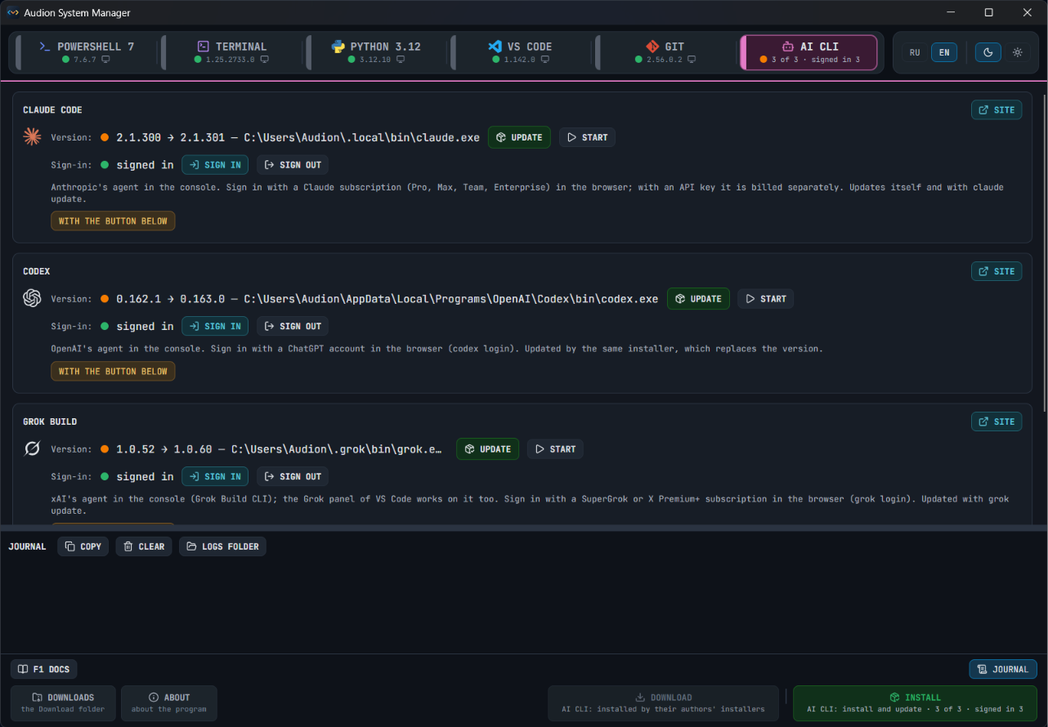
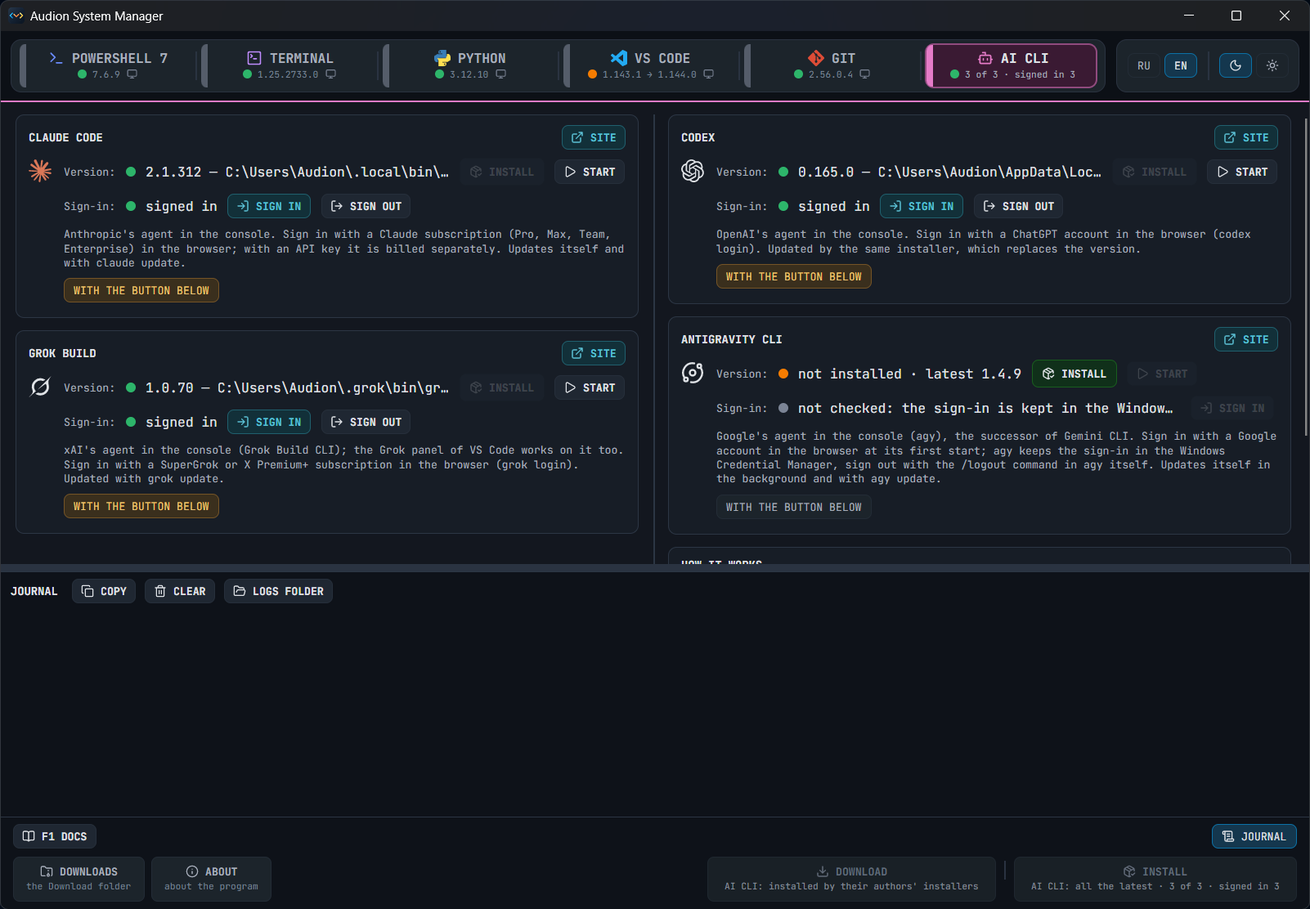
release: Audion System Manager 1.3.0

diff --git a/Docs/USER_GUIDE_RU.md b/Docs/USER_GUIDE_RU.md
@@ -8,7 +8,7 @@
 - [Как устроено окно](#как-устроено-окно)
 - [POWERSHELL 7](#powershell-7)
 - [TERMINAL](#terminal)
-- [PYTHON 3.12](#python-312)
+- [PYTHON](#python)
 - [VS CODE](#vs-code)
 - [GIT](#git)
 - [AI CLI](#ai-cli)
@@ -18,7 +18,7 @@
 - [Клавиши](#клавиши)
 - [Сеть и приватность](#сеть-и-приватность)
 
-Audion System Manager — одно окно для рабочего окружения разработчика на Windows: **PowerShell 7**, **Windows Terminal**, **Python 3.12**, **VS Code**, **Git** с **GitHub CLI** и агенты в консоли — **Claude Code**, **Codex**, **Grok Build**. Каждую программу можно поставить в систему или развернуть портативной папкой — со всеми опциями, которых не даёт менеджер пакетов, и с настройками Audion. Всё делается кнопками: без чёрного окна консоли и без ключей командной строки.
+Audion System Manager — одно окно для рабочего окружения разработчика на Windows: **PowerShell 7**, **Windows Terminal**, **Python 3.12, 3.13 и 3.14**, **VS Code**, **Git** с **GitHub CLI** и агенты в консоли — **Claude Code**, **Codex**, **Grok Build**. Каждую программу можно поставить в систему или развернуть портативной папкой — со всеми опциями, которых не даёт менеджер пакетов, и с настройками Audion. Всё делается кнопками: без чёрного окна консоли и без ключей командной строки.
 
 ## Запуск
 
@@ -32,14 +32,14 @@ Audion System Manager — одно окно для рабочего окруже
 
 **Верхняя строка** — две тёмных плашки: шесть разделов и справа язык и тема. Название и версия программы — в заголовке окна и в ABOUT.
 
-**Разделы** — POWERSHELL 7, TERMINAL, PYTHON 3.12, VS CODE, GIT, AI CLI. У каждого свой цвет; цвет линии под заголовком показывает, какой выбран. Под названием раздела — версия в выбранном на его странице режиме и значок режима (экран — в системе, флешка — портативно). Точка рядом с версией: зелёная — версия последняя, оранжевая — не установлено или вышла новая («1.132.0 → 1.142.0»), серая — источник не ответил. У AI CLI вместо версии — сводка «2 из 3 · вход 2»: сколько агентов стоит и в скольких выполнен вход.
+**Разделы** — POWERSHELL 7, TERMINAL, PYTHON, VS CODE, GIT, AI CLI. У каждого свой цвет; цвет линии под заголовком показывает, какой выбран. Под названием раздела — версия в выбранном на его странице режиме и значок режима (экран — в системе, флешка — портативно). Точка рядом с версией: зелёная — версия последняя, оранжевая — не установлено или вышла новая («1.132.0 → 1.142.0»), серая — источник не ответил. У AI CLI вместо версии — сводка «2 из 3 · вход 2»: сколько агентов стоит и в скольких выполнен вход.
 
-**Страница раздела** начинается с двух больших кнопок режима:
+**Страница раздела** начинается с переключателя режима — двух кнопок в одной рамке слева вверху:
 
 - **В СИСТЕМУ** — программа ставится на машину (или в профиль, где так задумано) со своими опциями;
 - **ПОРТАТИВНО** — программа распаковывается в папку и ничего не ставит; папку можно унести на другую машину.
 
-Под ними — карточки выбранного режима: состояние (что стоит, где, какая версия последняя, что лежит в загрузках), опции и кнопки. У VS Code ниже — общая для обоих режимов карточка настроек и расширений.
+Под ним — карточки выбранного режима в две колонки с линией между ними; обе колонки относятся к режиму, выбранному переключателем. Слева — что есть: состояние (что стоит, где, какая версия последняя, что лежит в загрузках). Справа — что с этим сделать: опции установки, а в портативном режиме папка и **РАЗВЁРТЫВАНИЕ** (как сборка разворачивается из архива в Download, её кнопки). Общие для обоих режимов карточки — профиль PowerShell, шрифт терминала, настройки и расширения VS Code, GitHub CLI и настройки Git — стоят в тех же колонках. В AI CLI агенты идут по очереди слева и справа, в ABOUT слева сведения о программе, справа настройки, клавиши и лицензия. В узком окне колонки встают одна под другой: сначала левая, потом правая.
 
 **Внизу**, постоянно:
 
@@ -71,7 +71,7 @@ Audion System Manager — одно окно для рабочего окруже
 
 **Портативно.** zip того же релиза распаковывается в папку (по умолчанию `Portable\PowerShell` рядом с программой; поле **Папка** меняет её). Профиль и модули пользователя портативный PowerShell берёт из «Документов», как и установленный. **ЗАПУСТИТЬ** открывает его в отдельной консоли.
 
-**Профиль PowerShell** — общий для обоих режимов: скрипт `Documents\PowerShell\Microsoft.PowerShell_profile.ps1`, который выполняется в начале каждого окна. Профиль Audion (`Presets\PowerShell`) — кодировка UTF-8, подсказки PSReadLine из истории списком, поиск по истории стрелками. **ПЕРЕНЕСТИ ПРОФИЛЬ** кладёт его (прежний откладывается рядом с датой в имени), **ВЗЯТЬ С МАШИНЫ** делает набором профиль этой машины.
+**Профиль PowerShell** — общий для обоих режимов: скрипт `Documents\PowerShell\Microsoft.PowerShell_profile.ps1`, который выполняется в начале каждого окна. Профиль Audion (`Presets\PowerShell`) — кодировка UTF-8, подсказки PSReadLine из истории списком, поиск по истории стрелками. **ПЕРЕНЕСТИ ПРОФИЛЬ** кладёт его (прежний откладывается рядом с датой в имени), **ВЗЯТЬ С МАШИНЫ** делает набором профиль этой машины. С галочкой **Настройки автора: профиль Audion** (нажата по умолчанию) профиль кладётся и при каждой установке и развёртывании; без неё PowerShell 7 ставится чистым, профиль на машине не трогается.
 
 ## TERMINAL
 
@@ -83,17 +83,19 @@ Audion System Manager — одно окно для рабочего окруже
 
 **Шрифт** — Cascadia Code и Cascadia Mono с вариантами NF (Nerd Font: значки в строке приглашения и списках файлов) и PL с GitHub, для пользователя, без прав. Начертание, которое уже есть в Windows (в Windows 11 — Cascadia Mono), не трогается; те же файлы повторно не ставятся.
 
-**Портативно.** zip релиза с GitHub распаковывается в папку (по умолчанию `Portable\Terminal`), рядом с WindowsTerminal.exe кладётся файл `.portable` — и терминал держит настройки в `settings\` рядом с собой. С чипом **НАСТРОЙКИ AUDION** туда же кладутся настройки Audion. При обновлении `settings\` и `.portable` остаются.
+**Портативно.** zip релиза с GitHub распаковывается в папку (по умолчанию `Portable\Terminal`), рядом с WindowsTerminal.exe кладётся файл `.portable` — и терминал держит настройки в `settings\` рядом с собой. С галочкой **Настройки автора** туда же кладутся настройки Audion; та же галочка в карточке **НАСТРОЙКИ AUDION** решает, класть ли их в установленный терминал после установки. Нажата по умолчанию; без неё терминал ставится чистым, со своими настройками. При обновлении `settings\` и `.portable` остаются.
 
-## PYTHON 3.12
+## PYTHON
 
-**В систему.** Установщик python.org со своими ключами — для всех пользователей, в свою папку (по умолчанию `C:\Python312`: в Program Files каждый `pip install` упирается в запрос прав, в своей папке — нет). Ключи — чипы карточки **УСТАНОВКА**: путь в начало системного PATH (заглушка Магазина больше не перехватывает `python`), лаунчер `py`, tcl/tk; ассоциации .py, ярлыки в «Пуске», документация и тесты по умолчанию выключены. После установщика программа убирает заглушки Магазина (файлы python.exe и python3.exe нулевого размера в профиле), проверяет, какой python отвечает в новой консоли, и обновляет pip.
+Под заголовком страницы — **Версия**: 3.12, 3.13 или 3.14. Версии стоят рядом, каждая в своей папке, со своим установщиком, архивом и своей последней версией на python.org; `py -3.12`, `py -3.14` выбирают нужную, `py` без номера — самую новую из установленных. По умолчанию 3.12: на ней встроенные рантаймы проектов Audion (тег колёс cp312). Выбор один на оба режима и хранится в настройках программы.
+
+**В систему.** Установщик python.org со своими ключами — для всех пользователей, в свою папку (по умолчанию `C:\Python312`, `C:\Python313` или `C:\Python314` — у каждой версии своя: в Program Files каждый `pip install` упирается в запрос прав, в своей папке — нет). Ключи — чипы карточки **УСТАНОВКА**: путь в начало системного PATH (заглушка Магазина больше не перехватывает `python`), лаунчер `py`, tcl/tk; ассоциации .py, ярлыки в «Пуске», документация и тесты по умолчанию выключены. После установщика программа убирает заглушки Магазина (файлы python.exe и python3.exe нулевого размера в профиле) и кладёт рядом с python.exe его копию python3.exe, проверяет, какие python и python3 отвечают в новой консоли, и обновляет pip. Заглушки — псевдонимы App Installer, и Windows возвращает их с каждым его обновлением; но python3 тогда отвечает настоящий Python — его папка стоит в PATH раньше, чем папка заглушек. Строка **Заглушки Магазина** говорит, перекрыты ли они.
 
 Почему 3.12: на этой версии работают рантаймы внутри проектов Audion, и метка колёс (cp312) должна совпадать. python.org выпускает 3.12 после 3.12.10 только исходниками, поэтому последняя версия здесь — последняя, у которой есть установщик для Windows.
 
 Карточка **В СИСТЕМЕ** показывает то, что обычно и ломается: все Python, что знает реестр (и те, что не в PATH), лаунчер py, какой python отвечает в консоли и заглушки Магазина. **ОБНОВИТЬ PIP У ВСЕХ** обновляет pip у всех Python, которые знает лаунчер py (где писать без прав нельзя, Windows спросит их).
 
-**Портативно.** Полный архив python.org (`python-3.12.N-amd64.zip`, тот, что берёт Python Install Manager) распаковывается в папку (по умолчанию `Portable\Python`): весь Python с pip, ничего не ставится и не пишется в реестр. Папка Doc не распаковывается, если не включён чип **ДОКУМЕНТАЦИЯ**. При обновлении ваши пакеты (`Lib\site-packages` и `Scripts`) переходят в новую сборку. Лаунчер py портативный Python не видит — запуск полным путём к python.exe или кнопкой **ЗАПУСТИТЬ**.
+**Портативно.** Полный архив python.org (`python-3.N.M-amd64.zip`, тот, что берёт Python Install Manager) распаковывается в папку своей версии (по умолчанию `Portable\Python` для 3.12, `Portable\Python313` и `Portable\Python314` для остальных): весь Python с pip, ничего не ставится и не пишется в реестр. Папка Doc не распаковывается, если не включён чип **ДОКУМЕНТАЦИЯ**. При обновлении ваши пакеты (`Lib\site-packages` и `Scripts`) переходят в новую сборку. Лаунчер py портативный Python не видит — запуск полным путём к python.exe или кнопкой **ЗАПУСТИТЬ**.
 
 ## VS CODE
 
@@ -101,11 +103,13 @@ Audion System Manager — одно окно для рабочего окруже
 
 **Портативно.** Архив распаковывается в папку (по умолчанию `Portable\VSCode`), рядом с Code.exe — папка `data`, где редактор держит настройки и расширения и ничего не пишет в профиль. Сам себя портативный VS Code не обновляет — обновляет эта программа: свежий архив, программа заменяется, `data` не трогается.
 
-**Настройки и расширения** — общие для обоих режимов. Настройки — файл `Presets\VSCode\settings.json`; в нём выключено доверие к папкам (`security.workspace.trust.enabled`), поэтому редактор не спрашивает про каждую папку. Чип **RIPGREP ДЛЯ TODO TREE**: Todo Tree ищет пометки через ripgrep, путь к которому внутри VS Code меняется с каждым обновлением, поэтому берётся отдельно установленный (нет — ставится через WinGet) и его путь пишется в настройки.
+**Настройки и расширения** — общие для обоих режимов. Настройки — файл `Presets\VSCode\settings.json`; в нём выключено доверие к папкам (`security.workspace.trust.enabled`), поэтому редактор не спрашивает про каждую папку. Класть ли их и **ripgrep для Todo Tree** вместе с ними, выбирается в окне выбора (ниже): Todo Tree ищет пометки через ripgrep, путь к которому внутри VS Code меняется с каждым обновлением, поэтому берётся отдельно установленный (нет — ставится через WinGet) и его путь пишется в настройки. Та же галочка **Настройки автора** стоит и прямо на странице — в карточке установки каждого режима.
 
 **ВЗЯТЬ С МАШИНЫ** делает набором настройки, клавиши (`keybindings.json`) и сниппеты VS Code этой машины — установленного или портативного, по режиму страницы; машинный путь ripgrep при этом не берётся. Клавиши и сниппеты из набора кладутся вместе с настройками. **ОБНОВИТЬ РАСШИРЕНИЯ** обновляет все расширения сейчас самим VS Code (`code --update-extensions`); обычно они обновляются и сами — в настройках Audion включено `extensions.autoUpdate`.
 
-Расширения — из трёх списков в `Presets\VSCode`: **ЯДРО** (`extensions.txt`, ставится всегда), **ИИ-АГЕНТЫ** (`extensions-ai.txt`: Claude и Codex по умолчанию; Grok — по желанию, это панель над отдельным Grok Build CLI) и **ПО ЖЕЛАНИЮ** (`extensions-optional.txt`). Каждое расширение — чип: включено или выключено; отметка хранится в настройках программы. В подсказке названия раздела — почему в нём именно эти, в подсказке чипа — полный идентификатор и стоит ли расширение. Списки можно править (кнопка **СПИСКИ**): одна строка — один идентификатор, заголовок `# --- Имя ---` открывает раздел.
+Расширения — из трёх списков в `Presets\VSCode`: **ЯДРО** (`extensions.txt`, ставится всегда), **ИИ-АГЕНТЫ** (`extensions-ai.txt`: Claude, Codex и Kilo Code по умолчанию; Grok — по желанию, это панель над отдельным Grok Build CLI) и **ПО ЖЕЛАНИЮ** (`extensions-optional.txt`). Kilo Code берёт модели разных поставщиков по ключу API или через шлюз Kilo, подписки Codex и Grok к нему подключаются официально; подписку Claude к нему не подключайте — Anthropic не разрешает работать по ней через сторонних агентов и блокирует за это аккаунт (Claude в Kilo Code — только по ключу API).
+
+Что ставить, выбирается в отдельном окне галочками: наверху — **Настройки автора** и **ripgrep для Todo Tree**, ниже — каждое расширение трёх списков по разделам, кнопки **ВСЕ**, **ПО СПИСКАМ** (как задумано списками) и **СНЯТЬ ВСЁ** и счётчик отмеченного и уже стоящего. Окно открывается перед **УСТАНОВИТЬ**, **ПЕРЕУСТАНОВИТЬ** и **РАЗВЕРНУТЬ** (его кнопка внизу и запускает установку), перед **ТОЛЬКО РАСШИРЕНИЯ** (без настроек) и кнопкой **ВЫБРАТЬ РАСШИРЕНИЯ** (кнопка **СОХРАНИТЬ**) — она стоит в карточке установки рядом с числом отмеченного, под галочкой **Настройки автора**. Отметки запоминаются в настройках программы, когда окно закрыто своей кнопкой; **ОТМЕНА** оставляет всё как было. В подсказке названия раздела — почему в нём именно эти, в подсказке галочки — полный идентификатор и стоит ли расширение. Списки можно править (кнопка **СПИСКИ**): одна строка — один идентификатор, заголовок `# --- Имя ---` открывает раздел.
 
 ## GIT
 
@@ -115,7 +119,7 @@ Audion System Manager — одно окно для рабочего окруже
 
 **GitHub CLI** (`gh`) ставится в режиме страницы: MSI релиза в систему или zip в `Portable\GitHub CLI`, со сверкой сумм релиза. **ВОЙТИ** открывает `gh auth login --web` в отдельном окне консоли: gh показывает одноразовый код, в браузере код вводится на github.com — после этого и `gh`, и Git ходят на GitHub с этим входом. **ВЫЙТИ** — `gh auth logout`.
 
-**Настройки Git** — набор `Presets\Git\gitconfig` (перевод строк, длинные пути, кириллица в именах файлов, редактор, ветка main, UTF-8). **ПЕРЕНЕСТИ НАСТРОЙКИ** ставит ключи в глобальные настройки по одному (`git config --global`): имя, почта и вход в `~\.gitconfig` остаются. Рядом с каждым ключом видно, что действует у вас сейчас. **ВЗЯТЬ С МАШИНЫ** делает набором глобальные настройки этой машины — без личного и машинного (user, credential, url, http и всё, что похоже на адрес с логином или токен).
+**Настройки Git** — набор `Presets\Git\gitconfig` (перевод строк, длинные пути, кириллица в именах файлов, редактор, ветка main, UTF-8). **ПЕРЕНЕСТИ НАСТРОЙКИ** ставит ключи в глобальные настройки по одному (`git config --global`): имя, почта и вход в `~\.gitconfig` остаются. Галочка **Настройки автора: gitconfig Audion** (нажата по умолчанию) делает это и после каждой установки и развёртывания; без неё Git ставится чистым. Рядом с каждым ключом видно, что действует у вас сейчас. **ВЗЯТЬ С МАШИНЫ** делает набором глобальные настройки этой машины — без личного и машинного (user, credential, url, http и всё, что похоже на адрес с логином или токен).
 
 ## AI CLI
 
@@ -155,7 +159,7 @@ Audion System Manager — одно окно для рабочего окруже
 | Клавиша | Что делает |
 |---|---|
 | F1 | это руководство |
-| Ctrl+1 … Ctrl+6 | разделы POWERSHELL 7, TERMINAL, PYTHON 3.12, VS CODE, GIT, AI CLI |
+| Ctrl+1 … Ctrl+6 | разделы POWERSHELL 7, TERMINAL, PYTHON, VS CODE, GIT, AI CLI |
 | Ctrl+7, Ctrl+8 | ЗАГРУЗКИ, ABOUT |
 | Ctrl+J | журнал |
 | Esc | назад к разделу |

diff --git a/Docs/USER_GUIDE_EN.md b/Docs/USER_GUIDE_EN.md
@@ -8,7 +8,7 @@
 - [The window](#the-window)
 - [POWERSHELL 7](#powershell-7)
 - [TERMINAL](#terminal)
-- [PYTHON 3.12](#python-312)
+- [PYTHON](#python)
 - [VS CODE](#vs-code)
 - [GIT](#git)
 - [AI CLI](#ai-cli)
@@ -18,7 +18,7 @@
 - [Keys](#keys)
 - [Network and privacy](#network-and-privacy)
 
-Audion System Manager is one window for the developer environment on Windows: **PowerShell 7**, **Windows Terminal**, **Python 3.12**, **VS Code**, **Git** with **GitHub CLI**, and the agents of the console — **Claude Code**, **Codex**, **Grok Build**. Each program can be installed for the system or unpacked as a portable folder — with every option a package manager does not give, and with the Audion settings. Everything is done with buttons: no black console window, no command-line switches.
+Audion System Manager is one window for the developer environment on Windows: **PowerShell 7**, **Windows Terminal**, **Python 3.12, 3.13 and 3.14**, **VS Code**, **Git** with **GitHub CLI**, and the agents of the console — **Claude Code**, **Codex**, **Grok Build**. Each program can be installed for the system or unpacked as a portable folder — with every option a package manager does not give, and with the Audion settings. Everything is done with buttons: no black console window, no command-line switches.
 
 ## Starting
 
@@ -32,14 +32,14 @@ A second start from the same folder does not open a second copy but shows the wi
 
 **The top row** — two dark pieces: the six sections, and the language and theme on the right. The name and version of the program are in the title bar and in ABOUT.
 
-**The sections** — POWERSHELL 7, TERMINAL, PYTHON 3.12, VS CODE, GIT, AI CLI. Each has a colour of its own; the colour of the line under the header shows which one is chosen. Under the name of a section — the version in the mode chosen on its page and the mark of the mode (a screen — for the system, a stick — portable). The dot by the version: green — the latest version, orange — not installed or a newer one is out ("1.132.0 → 1.142.0"), gray — the source did not answer. AI CLI shows a summary instead of a version, "2 of 3 · signed in 2": how many agents are installed and how many are signed in.
+**The sections** — POWERSHELL 7, TERMINAL, PYTHON, VS CODE, GIT, AI CLI. Each has a colour of its own; the colour of the line under the header shows which one is chosen. Under the name of a section — the version in the mode chosen on its page and the mark of the mode (a screen — for the system, a stick — portable). The dot by the version: green — the latest version, orange — not installed or a newer one is out ("1.132.0 → 1.142.0"), gray — the source did not answer. AI CLI shows a summary instead of a version, "2 of 3 · signed in 2": how many agents are installed and how many are signed in.
 
-**The page of a section** begins with two big mode buttons:
+**The page of a section** begins with the mode switch — two buttons in one frame at the top left:
 
 - **FOR THE SYSTEM** — the program is installed on the machine (or into the profile, where that is the idea) with its options;
 - **PORTABLE** — the program is unpacked into a folder and installs nothing; the folder can be carried to another machine.
 
-Under them — the cards of the chosen mode: the state (what is installed, where, which version is the latest, what lies in the downloads), the options and the buttons. VS Code has a card of settings and extensions below, shared by both modes.
+Under it — the cards of the chosen mode in two columns with a line between them; both columns belong to the mode chosen by the switch. On the left, what there is: the state (what is installed, where, which version is the latest, what lies in the downloads). On the right, what to do with it: the install options, and in the portable mode the folder and **UNPACKING** (how the build is unpacked from the archive in Download, its buttons). The cards both modes share — the PowerShell profile, the terminal font, the VS Code settings and extensions, GitHub CLI and the Git settings — stand in the same columns. In AI CLI the agents go left and right by turns; in ABOUT the program is on the left, the settings, keys and licence on the right. In a narrow window the columns stand one under the other: the left one first, then the right one.
 
 **At the bottom**, always:
 
@@ -71,7 +71,7 @@ The choice survives updates: the package keeps it and puts it back at the next i
 
 **Portable.** The zip of the same release is unpacked into a folder (`Portable\PowerShell` beside the program by default; the **Folder** field changes it). The portable PowerShell takes the user's profile and modules from Documents, as the installed one does. **START** opens it in a console of its own.
 
-**The PowerShell profile** is shared by both modes: the script `Documents\PowerShell\Microsoft.PowerShell_profile.ps1` that runs at the start of every window. The Audion profile (`Presets\PowerShell`) — UTF-8 encoding, PSReadLine suggestions from the history as a list, history search with the arrows. **CARRY OVER PROFILE** puts it there (the previous one is set aside with the date in its name), **TAKE FROM THE MACHINE** makes the profile of this machine the preset.
+**The PowerShell profile** is shared by both modes: the script `Documents\PowerShell\Microsoft.PowerShell_profile.ps1` that runs at the start of every window. The Audion profile (`Presets\PowerShell`) — UTF-8 encoding, PSReadLine suggestions from the history as a list, history search with the arrows. **CARRY OVER PROFILE** puts it there (the previous one is set aside with the date in its name), **TAKE FROM THE MACHINE** makes the profile of this machine the preset. With the **Author's settings: the Audion profile** box (ticked by default) the profile is put at every install and unpacking too; without it PowerShell 7 goes in clean and the profile on the machine is left alone.
 
 ## TERMINAL
 
@@ -83,17 +83,19 @@ The **AUDION SETTINGS** card shows what is in the settings file (`Presets\Termin
 
 **Font** — Cascadia Code and Cascadia Mono with the NF (Nerd Font: icons in prompts and file lists) and PL variants from GitHub, for the user, no rights. A face Windows has already (Cascadia Mono in Windows 11) is not touched; the same files are not installed twice.
 
-**Portable.** The zip of the GitHub release is unpacked into a folder (`Portable\Terminal` by default), a `.portable` file is put beside WindowsTerminal.exe — and the terminal keeps its settings in `settings\` beside itself. With the **AUDION SETTINGS** chip the Audion settings go there too. On an update `settings\` and `.portable` stay.
+**Portable.** The zip of the GitHub release is unpacked into a folder (`Portable\Terminal` by default), a `.portable` file is put beside WindowsTerminal.exe — and the terminal keeps its settings in `settings\` beside itself. With the **Author's settings** box the Audion settings go there too; the same box in the **AUDION SETTINGS** card decides whether they go into the installed terminal after an install. Ticked by default; without it the terminal goes in clean, with its own settings. On an update `settings\` and `.portable` stay.
 
-## PYTHON 3.12
+## PYTHON
 
-**For the system.** The python.org installer with keys of its own — for all users, into a folder of its own (`C:\Python312` by default: in Program Files every `pip install` runs into an elevation prompt, in its own folder it does not). The keys are the chips of the **INSTALL** card: the path at the front of the system PATH (the Store stub no longer catches `python`), the `py` launcher, tcl/tk; .py associations, Start menu shortcuts, the documentation and the tests are off by default. After the installer the program removes the Store stubs (zero-size python.exe and python3.exe in the profile), checks which python answers in a new console and updates pip.
+Under the title of the page — **Version**: 3.12, 3.13 or 3.14. The versions stand side by side, each in a folder of its own, with its own installer, archive and latest version at python.org; `py -3.12`, `py -3.14` pick one, `py` without a number the newest one installed. 3.12 is the default: the embedded runtimes of the Audion projects are on it (the wheel tag cp312). The choice is one for both modes and is kept in the settings of the program.
+
+**For the system.** The python.org installer with keys of its own — for all users, into a folder of its own (`C:\Python312`, `C:\Python313` or `C:\Python314` by default — every version has its own: in Program Files every `pip install` runs into an elevation prompt, in its own folder it does not). The keys are the chips of the **INSTALL** card: the path at the front of the system PATH (the Store stub no longer catches `python`), the `py` launcher, tcl/tk; .py associations, Start menu shortcuts, the documentation and the tests are off by default. After the installer the program removes the Store stubs (zero-size python.exe and python3.exe in the profile) and puts a copy of python.exe beside it as python3.exe, checks which python and python3 answer in a new console and updates pip. The stubs are the aliases of App Installer, and Windows brings them back with every update of it; but python3 is then answered by the real Python — its folder stands earlier in PATH than the folder of the stubs. The **Store stubs** line says whether they are shadowed.
 
 Why 3.12: the runtimes inside the Audion projects are 3.12, and the wheel tag (cp312) has to match. After 3.12.10 python.org releases 3.12 as sources only, so the latest version here is the latest one with a Windows installer.
 
 The **IN THE SYSTEM** card shows what usually breaks: every Python the registry knows (even those not in PATH), the py launcher, which python answers in a console, and the Store stubs. **UPDATE PIP OF ALL** updates pip of every Python the py launcher knows (where writing needs rights, Windows asks for them).
 
-**Portable.** python.org's full archive (`python-3.12.N-amd64.zip`, the one the Python Install Manager takes) is unpacked into a folder (`Portable\Python` by default): the whole Python with pip, nothing installed, nothing written to the registry. The Doc folder is not unpacked unless the **DOCUMENTATION** chip is on. On an update your packages (`Lib\site-packages` and `Scripts`) move to the new build. The py launcher does not see a portable Python — start it by the full path of python.exe or with **START**.
+**Portable.** python.org's full archive (`python-3.N.M-amd64.zip`, the one the Python Install Manager takes) is unpacked into the folder of its version (`Portable\Python` for 3.12, `Portable\Python313` and `Portable\Python314` for the others by default): the whole Python with pip, nothing installed, nothing written to the registry. The Doc folder is not unpacked unless the **DOCUMENTATION** chip is on. On an update your packages (`Lib\site-packages` and `Scripts`) move to the new build. The py launcher does not see a portable Python — start it by the full path of python.exe or with **START**.
 
 ## VS CODE
 
@@ -101,11 +103,13 @@ The **IN THE SYSTEM** card shows what usually breaks: every Python the registry 
 
 **Portable.** The archive is unpacked into a folder (`Portable\VSCode` by default), with a `data` folder beside Code.exe where the editor keeps its settings and extensions and writes nothing to the profile. The portable VS Code does not update itself — this program updates it: a fresh archive, the program replaced, `data` untouched.
 
-**Settings and extensions** are shared by both modes. The settings are the file `Presets\VSCode\settings.json`; trust in folders is off in it (`security.workspace.trust.enabled`), so the editor does not ask about every folder. The **RIPGREP FOR TODO TREE** chip: Todo Tree finds its marks with ripgrep, whose path inside VS Code changes with every update, so a separately installed one is taken (none — WinGet installs it) and its path is written into the settings.
+**Settings and extensions** are shared by both modes. The settings are the file `Presets\VSCode\settings.json`; trust in folders is off in it (`security.workspace.trust.enabled`), so the editor does not ask about every folder. Whether they go in, and **ripgrep for Todo Tree** with them, is chosen in the window of the choice (below): Todo Tree finds its marks with ripgrep, whose path inside VS Code changes with every update, so a separately installed one is taken (none — WinGet installs it) and its path is written into the settings. The same **Author's settings** box stands right on the page too, in the card of the install of each mode.
 
 **TAKE FROM THE MACHINE** makes the settings, keys (`keybindings.json`) and snippets of this machine's VS Code the preset — the installed or the portable one, by the mode of the page; the machine's path of ripgrep is left out. The keys and snippets of the preset go along with the settings. **UPDATE EXTENSIONS** updates every extension now by VS Code itself (`code --update-extensions`); usually they update by themselves too — `extensions.autoUpdate` is on in the Audion settings.
 
-The extensions come from three lists in `Presets\VSCode`: **CORE** (`extensions.txt`, installed always), **AI AGENTS** (`extensions-ai.txt`: Claude and Codex by default; Grok by request, a panel over a separate Grok Build CLI) and **BY REQUEST** (`extensions-optional.txt`). Every extension is a chip: on or off; the mark is kept in the settings of the program. The tip of a section's name says why exactly these are in it, the tip of a chip gives the full identifier and whether the extension is installed. The lists can be edited (the **LISTS** button): one line — one identifier, a heading `# --- Name ---` opens a section.
+The extensions come from three lists in `Presets\VSCode`: **CORE** (`extensions.txt`, installed always), **AI AGENTS** (`extensions-ai.txt`: Claude, Codex and Kilo Code by default; Grok by request, a panel over a separate Grok Build CLI) and **BY REQUEST** (`extensions-optional.txt`). Kilo Code takes the models of many providers by an API key or through the Kilo gateway, and the Codex and Grok subscriptions connect to it officially; do not connect a Claude subscription to it — Anthropic does not allow working by it through third-party agents and bans the account for it (Claude in Kilo Code — by an API key only).
+
+What goes in is ticked in a window of its own: on top **Author's settings** and **ripgrep for Todo Tree**, below every extension of the three lists by sections, the buttons **ALL**, **BY THE LISTS** (as the lists mean it) and **CLEAR ALL**, and a count of what is ticked and installed already. The window opens before **INSTALL**, **REINSTALL** and **UNPACK** (its button below starts the install), before **EXTENSIONS ONLY** (without the settings) and by **CHOOSE EXTENSIONS** (the **SAVE** button) — it stands in the card of the install beside the count of what is ticked, under the **Author's settings** box. The ticks are kept in the settings of the program when the window is left by its button; **CANCEL** leaves everything as it was. The tip of a section's name says why exactly these are in it, the tip of a tick gives the full identifier and whether the extension is installed. The lists can be edited (the **LISTS** button): one line — one identifier, a heading `# --- Name ---` opens a section.
 
 ## GIT
 
@@ -115,7 +119,7 @@ The extensions come from three lists in `Presets\VSCode`: **CORE** (`extensions.
 
 **GitHub CLI** (`gh`) is installed in the mode of the page: the MSI of the release for the system or the zip into `Portable\GitHub CLI`, checked against the checksums of the release. **SIGN IN** opens `gh auth login --web` in a console window of its own: gh shows a one-time code, entered in the browser on github.com — after that both `gh` and Git go to GitHub with this sign-in. **SIGN OUT** — `gh auth logout`.
 
-**Git settings** — the preset `Presets\Git\gitconfig` (line endings, long paths, Cyrillic in file names, the editor, branch main, UTF-8). **CARRY OVER SETTINGS** puts the keys into the global settings one by one (`git config --global`): the name, e-mail and sign-in in `~\.gitconfig` stay. Beside each key is what is in force for you now. **TAKE FROM THE MACHINE** makes the global settings of this machine the preset — without the personal and machine ones (user, credential, url, http and anything that looks like an address with a login or a token).
+**Git settings** — the preset `Presets\Git\gitconfig` (line endings, long paths, Cyrillic in file names, the editor, branch main, UTF-8). **CARRY OVER SETTINGS** puts the keys into the global settings one by one (`git config --global`): the name, e-mail and sign-in in `~\.gitconfig` stay. The **Author's settings: the Audion gitconfig** box (ticked by default) does it after every install and unpacking too; without it Git goes in clean. Beside each key is what is in force for you now. **TAKE FROM THE MACHINE** makes the global settings of this machine the preset — without the personal and machine ones (user, credential, url, http and anything that looks like an address with a login or a token).
 
 ## AI CLI
 
@@ -155,7 +159,7 @@ The **Folder** field of the portable mode takes a path on Enter or when you leav
 | Key | What it does |
 |---|---|
 | F1 | this guide |
-| Ctrl+1 … Ctrl+6 | the sections POWERSHELL 7, TERMINAL, PYTHON 3.12, VS CODE, GIT, AI CLI |
+| Ctrl+1 … Ctrl+6 | the sections POWERSHELL 7, TERMINAL, PYTHON, VS CODE, GIT, AI CLI |
 | Ctrl+7, Ctrl+8 | DOWNLOADS, ABOUT |
 | Ctrl+J | the journal |
 | Esc | back to the section |

diff --git a/README.md b/README.md
@@ -10,13 +10,12 @@
 
 **Version 1.3.0** · 2026-10-29 · 49.2 MB
 
-- [Direct download](https://dl.audion.dev/system-manager/1.3.0/Audion_System_Manager_v1.3.0.zip) — unmetered, no rate limits
+- [Direct download](https://audion.dev/get/system-manager/1.3.0/Audion_System_Manager_v1.3.0_Full.zip) — unmetered, no rate limits
 - [Project page](https://audion.dev/downloads/system-manager) — every version and how to install
-- [GitHub release](https://github.com/Tensionix/system-manager/releases/tag/v1.3.0)
 
 <p align="center"><img src="Docs/screenshot.png" alt="The program window" width="560"></p>
 
-`SHA-256: 17aced166ea6d6a263be7af7132a423699b265859f37119f368e25fcaa9c8801`
+`SHA-256: 27cc5e23fff821e96cca18791b89a8dbed9ffc76016d724d603649c6d7b0926f`
 
 ---
 
@@ -26,7 +25,7 @@ An **Audion** tool, published by [Tensionix](https://github.com/Tensionix).
 
 [English README](Docs/README_EN.md) · [User Guide](Docs/USER_GUIDE_EN.md) | [Русский README](Docs/README_RU.md) · [Руководство](Docs/USER_GUIDE_RU.md)
 
-One window for the developer environment on Windows: **PowerShell 7**, **Windows Terminal**, **Python 3.12**, **VS Code**, **Git** with **GitHub CLI**, and the agents of the console **Claude Code**, **Codex**, **Grok Build**, **Antigravity CLI**. Each program can be installed for the system or unpacked as a portable folder — with every option a package manager does not give, and with the Audion settings. With buttons: no black console window, no command-line switches.
+One window for the developer environment on Windows: **PowerShell 7**, **Windows Terminal**, **Python 3.12, 3.13 and 3.14**, **VS Code**, **Git** with **GitHub CLI**, and the agents of the console **Claude Code**, **Codex**, **Grok Build**, **Antigravity CLI**. Each program can be installed for the system or unpacked as a portable folder — with every option a package manager does not give, and with the Audion settings. With buttons: no black console window, no command-line switches.
 
 ## Why
 
@@ -36,7 +35,7 @@ A package manager installs a program but does not set it up. An installer wizard
 |---|---|---|
 | POWERSHELL 7 | the MSI for the whole machine with every option: Explorer menus, PATH, event log, updates through Microsoft Update; the Audion profile | the zip of the release in a folder |
 | TERMINAL | Windows Terminal from the Store (or through WinGet) and the Audion settings in every terminal found; the default terminal; Cascadia Nerd Font | the zip of the release in a folder, settings beside it |
-| PYTHON 3.12 | the python.org installer for all users, into its own folder, the path at the front of PATH, the py launcher, no Store stubs; pip of every Python | python.org's full archive with pip |
+| PYTHON | 3.12, 3.13 or 3.14, side by side: the python.org installer for all users, every version into its own folder, the path at the front of PATH, the py launcher, no Store stubs; pip of every Python | python.org's full archive with pip |
 | VS CODE | the installer for the machine or the profile with every box of its wizard, the settings, keys and snippets, the extensions by the lists | the archive in a folder with its data folder, updated without losing the settings |
 | GIT | Git for Windows with every box of its wizard; GitHub CLI with sign-in in the browser; the Audion Git settings, the personal ones left alone | PortableGit in a folder, GitHub CLI beside it |
 

diff --git a/Docs/README_RU.md b/Docs/README_RU.md
@@ -2,7 +2,7 @@
 
 [English README](README_EN.md) · [User Guide](USER_GUIDE_EN.md) | [Русский README](README_RU.md) · [Руководство](USER_GUIDE_RU.md)
 
-Одно окно для рабочего окружения разработчика на Windows: **PowerShell 7**, **Windows Terminal**, **Python 3.12**, **VS Code**, **Git** с **GitHub CLI** и агенты в консоли **Claude Code**, **Codex**, **Grok Build**, **Antigravity CLI**. Каждую программу можно поставить в систему или развернуть портативной папкой — со всеми опциями, которых не даёт менеджер пакетов, и с настройками Audion. Кнопками, без чёрного окна консоли и без ключей командной строки.
+Одно окно для рабочего окружения разработчика на Windows: **PowerShell 7**, **Windows Terminal**, **Python 3.12, 3.13 и 3.14**, **VS Code**, **Git** с **GitHub CLI** и агенты в консоли **Claude Code**, **Codex**, **Grok Build**, **Antigravity CLI**. Каждую программу можно поставить в систему или развернуть портативной папкой — со всеми опциями, которых не даёт менеджер пакетов, и с настройками Audion. Кнопками, без чёрного окна консоли и без ключей командной строки.
 
 ## Зачем это сделано
 
@@ -12,7 +12,7 @@
 |---|---|---|
 | POWERSHELL 7 | MSI для всей машины со всеми опциями: меню Проводника, PATH, журнал событий, обновления через Microsoft Update; профиль Audion | zip релиза в папку |
 | TERMINAL | Windows Terminal из Магазина (или через WinGet) и настройки Audion во всех найденных терминалах; терминал по умолчанию; шрифт Cascadia Nerd Font | zip релиза в папку, настройки рядом |
-| PYTHON 3.12 | установщик python.org для всех, в свою папку, путь в начале PATH, лаунчер py, без заглушек Магазина; pip у всех Python | полный архив python.org с pip |
+| PYTHON | 3.12, 3.13 или 3.14, рядом: установщик python.org для всех, каждая версия в свою папку, путь в начале PATH, лаунчер py, без заглушек Магазина; pip у всех Python | полный архив python.org с pip |
 | VS CODE | установщик на машину или в профиль со всеми галочками мастера, настройки, клавиши и сниппеты, расширения по спискам | архив в папку с папкой data, обновление без потери настроек |
 | GIT | Git for Windows со всеми галочками мастера; GitHub CLI со входом через браузер; настройки Git Audion, личные не трогаются | PortableGit в папку, GitHub CLI рядом |
 

diff --git a/Docs/README_EN.md b/Docs/README_EN.md
@@ -2,7 +2,7 @@
 
 [English README](README_EN.md) · [User Guide](USER_GUIDE_EN.md) | [Русский README](README_RU.md) · [Руководство](USER_GUIDE_RU.md)
 
-One window for the developer environment on Windows: **PowerShell 7**, **Windows Terminal**, **Python 3.12**, **VS Code**, **Git** with **GitHub CLI**, and the agents of the console **Claude Code**, **Codex**, **Grok Build**, **Antigravity CLI**. Each program can be installed for the system or unpacked as a portable folder — with every option a package manager does not give, and with the Audion settings. With buttons: no black console window, no command-line switches.
+One window for the developer environment on Windows: **PowerShell 7**, **Windows Terminal**, **Python 3.12, 3.13 and 3.14**, **VS Code**, **Git** with **GitHub CLI**, and the agents of the console **Claude Code**, **Codex**, **Grok Build**, **Antigravity CLI**. Each program can be installed for the system or unpacked as a portable folder — with every option a package manager does not give, and with the Audion settings. With buttons: no black console window, no command-line switches.
 
 ## Why
 
@@ -12,7 +12,7 @@ A package manager installs a program but does not set it up. An installer wizard
 |---|---|---|
 | POWERSHELL 7 | the MSI for the whole machine with every option: Explorer menus, PATH, event log, updates through Microsoft Update; the Audion profile | the zip of the release in a folder |
 | TERMINAL | Windows Terminal from the Store (or through WinGet) and the Audion settings in every terminal found; the default terminal; Cascadia Nerd Font | the zip of the release in a folder, settings beside it |
-| PYTHON 3.12 | the python.org installer for all users, into its own folder, the path at the front of PATH, the py launcher, no Store stubs; pip of every Python | python.org's full archive with pip |
+| PYTHON | 3.12, 3.13 or 3.14, side by side: the python.org installer for all users, every version into its own folder, the path at the front of PATH, the py launcher, no Store stubs; pip of every Python | python.org's full archive with pip |
 | VS CODE | the installer for the machine or the profile with every box of its wizard, the settings, keys and snippets, the extensions by the lists | the archive in a folder with its data folder, updated without losing the settings |
 | GIT | Git for Windows with every box of its wizard; GitHub CLI with sign-in in the browser; the Audion Git settings, the personal ones left alone | PortableGit in a folder, GitHub CLI beside it |
 

diff --git a/licenses/LICENSE_SCAN_REPORT.md b/licenses/LICENSE_SCAN_REPORT.md
@@ -1,7 +1,7 @@
 # Audion Build Licenses Scan Report
 
 - Project: **Audion System Manager** (`audion-system-manager`)
-- Run: `20261024T081408Z_audion-system-manager_fb047c4f`
+- Run: `20261029T012317Z_audion-system-manager_f74cd9ca`
 - Scan root (from the project root): `.`
 - Output (from the project root): `licenses`
 - Status: **PASS**
@@ -17,7 +17,7 @@ No issues detected.
 
 | Component | Change | Old | New |
 |---|---|---:|---:|
-| Audion launcher | `VERSION_OR_ARTIFACT_CHANGED_LICENSE_SAME` | bundled | bundled |
+| Audion launcher | `UNCHANGED` | bundled | bundled |
 | Avalonia | `UNCHANGED` | 12.1.3 | 12.1.3 |
 | Avalonia.Angle.Windows.Natives | `UNCHANGED` | 2.1.27548.20260419 | 2.1.27548.20260419 |
 | Avalonia.Desktop | `UNCHANGED` | 12.1.3 | 12.1.3 |
@@ -37,7 +37,7 @@ No issues detected.
 | JetBrains Mono | `UNCHANGED` | 2.211 | 2.211 |
 | Lucide | `UNCHANGED` | 1.48.0 | 1.48.0 |
 | MicroCom.Runtime | `UNCHANGED` | 0.11.6 | 0.11.6 |
-| Microsoft.NETCore.App.Runtime.win-x64 | `UNCHANGED` | 10.0.13 | 10.0.13 |
+| Microsoft.NETCore.App.Runtime.win-x64 | `UNCHANGED` | 10.0.14 | 10.0.14 |
 | Simple Icons | `UNCHANGED` | 16.32.0 | 16.32.0 |
 | SkiaSharp | `UNCHANGED` | 3.119.4 | 3.119.4 |
 | SkiaSharp.NativeAssets.Win32 | `UNCHANGED` | 3.119.4 | 3.119.4 |
